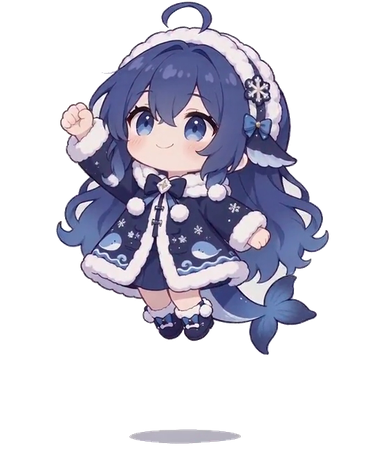
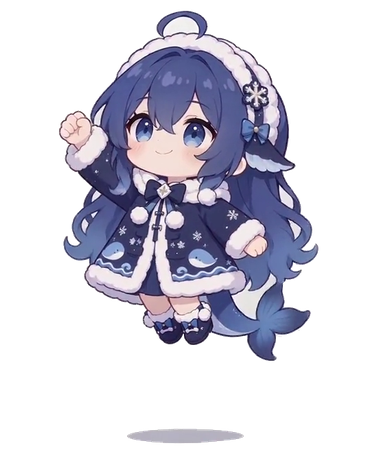
Drop tip-clipped walking_up frames and pin the up walk to one round trip
Three frames whose subject tip touched the canvas top are removed, leaving 27,
and walking_up now lasts exactly one boomerang round trip (kWalkUp*Ticks = 52).

Changed region(s): [[0.125, 0.0, 0.875, 0.7982]]

diff --git a/src/pet/behaviors.cpp b/src/pet/behaviors.cpp
@@ -9,7 +9,7 @@ std::vector<pet_behavior::Spec>& MutableBehaviors() {
     static std::vector<Spec> specs = {
         { L"walking_left",  Trigger::Auto, Playback::Loop,      kWalkMinTicks, kWalkMaxTicks, 1, -kWalkStepPx, 0, true },
         { L"walking_right", Trigger::Auto, Playback::Loop,      kWalkMinTicks, kWalkMaxTicks, 1,  kWalkStepPx, 0, true },
-        { L"walking_up",    Trigger::Auto, Playback::Boomerang, kWalkMinTicks, kWalkMaxTicks, 1, 0, -kWalkStepPx, true },
+        { L"walking_up",    Trigger::Auto, Playback::Boomerang, kWalkUpMinTicks, kWalkUpMaxTicks, 1, 0, -kWalkStepPx, true },
         { L"walking_down",  Trigger::Auto, Playback::FullCycle, kWalkMinTicks, kWalkMaxTicks, 1, 0,  kWalkStepPx, true },
         { L"clicked", Trigger::OnClick,     Playback::OneShot, 0, 0, 1, 0, 0, false },
         { L"drag",    Trigger::OnDragStart, Playback::Loop,    0, 0, 1, 0, 0, false },

diff --git a/src/core/config.h b/src/core/config.h
@@ -22,6 +22,11 @@ constexpr int kIdleMinTicks = 30;       // idle dwell before walking (~3s)
 constexpr int kIdleMaxTicks = 100;      // ~10s
 constexpr int kWalkMinTicks = 15;       // walk duration (~1.5s)
 constexpr int kWalkMaxTicks = 45;       // ~4.5s
+// walking_up is a boomerang, so its natural length is one round trip:
+// 2 * frames - 2 ticks (27 frames -> 52 ticks, ~5.2s). Pin it there so it never
+// stops earlier — or later — than the single round trip the clip was cut for.
+constexpr int kWalkUpMinTicks = 52;
+constexpr int kWalkUpMaxTicks = 52;
 constexpr int kWaitMinTicks = 1200;     // post-drag idle-only wait (~2 min)
 constexpr int kWaitMaxTicks = 1800;     // ~3 min
 
